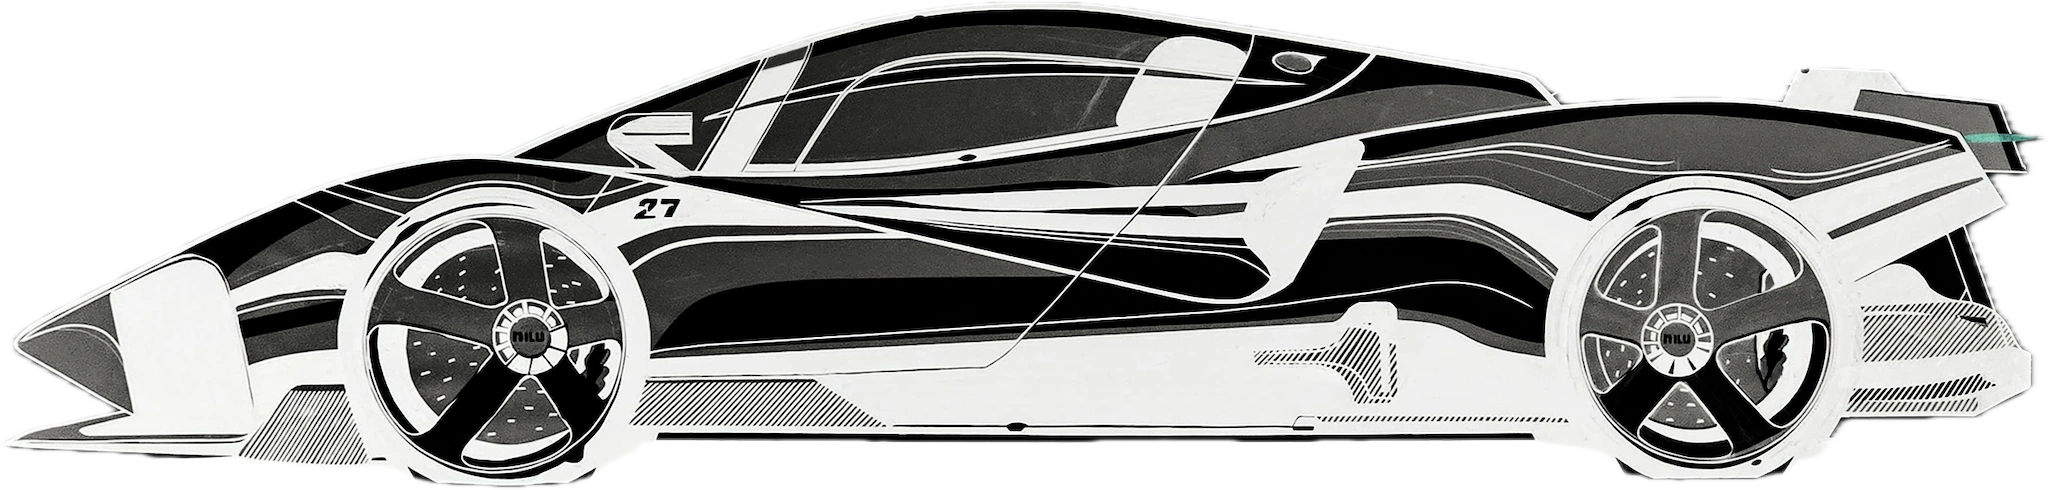
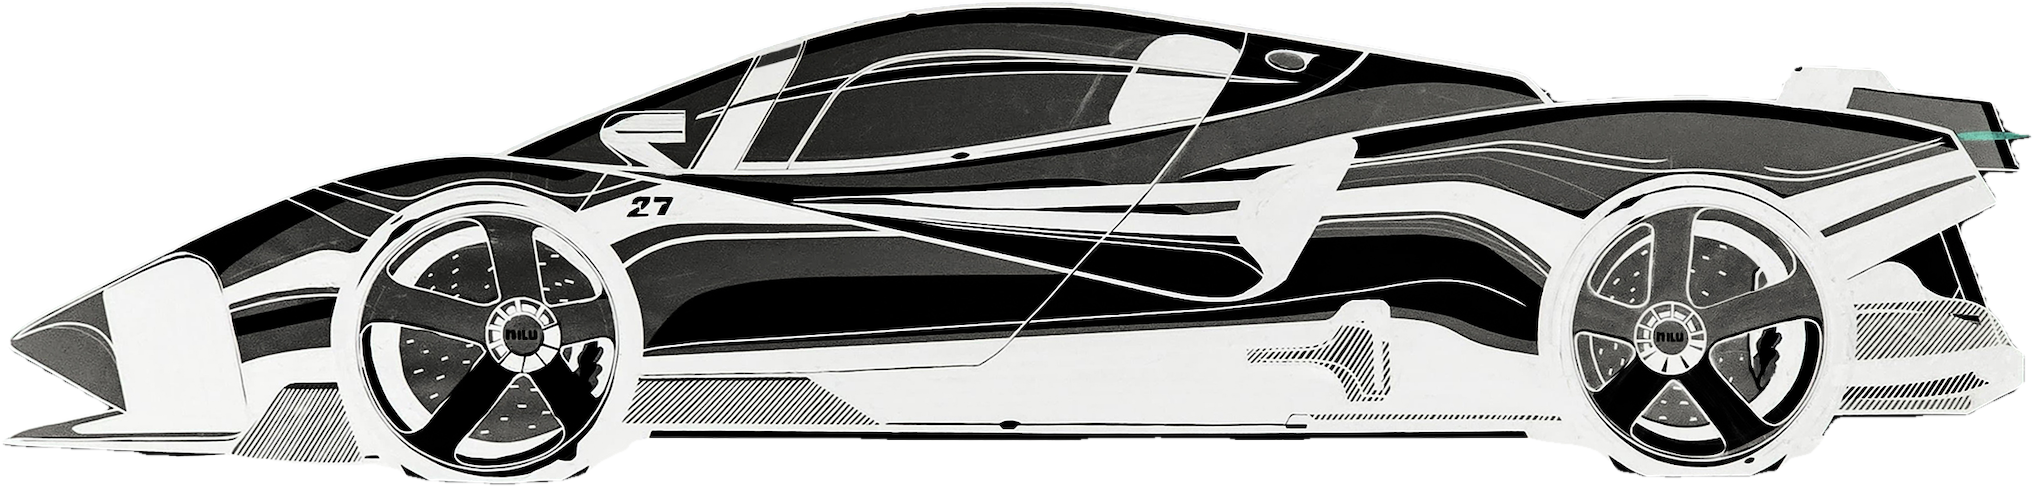
Hero-Auto: weiche Freistell-Kante entfernt, verlustfrei
Claude-Session: https://claude.ai/code/session_01H6YkxvjMeMFMdhauiUK4gC

diff --git a/index.html b/index.html
@@ -16,7 +16,7 @@
   <header class="hero">
     <h1>Leonard Philp</h1>
     <p class="sub">Industrial design student at HTW Berlin. I design vehicles and everyday products, with a business background that keeps them buildable and sellable.</p>
-    <img id="hero-car" src="bilder/hero-car.webp?v=3" alt="Full-scale automotive tape rendering of the sports car Nilu 27 by Leonard Philp" width="2051" height="490">
+    <img id="hero-car" src="bilder/hero-car.webp?v=4" alt="Full-scale automotive tape rendering of the sports car Nilu 27 by Leonard Philp" width="2033" height="486">
   </header>
 
   <main>
@@ -141,7 +141,7 @@
       <p class="label accent">04 / Contact</p>
       <h2>Let's build<br>something.</h2>
       <div class="road">
-        <img class="contact-car" src="bilder/car-contact.webp?v=2" alt="" aria-hidden="true" width="1000" height="239">
+        <img class="contact-car" src="bilder/car-contact.webp?v=3" alt="" aria-hidden="true" width="1000" height="239">
       <ul class="links">
         <li><a href="https://instagram.com/advanced_transportdesign" target="_blank" rel="noopener"><span class="label">Instagram</span>@advanced_transportdesign ↗</a></li>
         <li><a href="https://www.linkedin.com/in/leonard-philp" target="_blank" rel="noopener"><span class="label">LinkedIn</span>Leonard Philp ↗</a></li>
